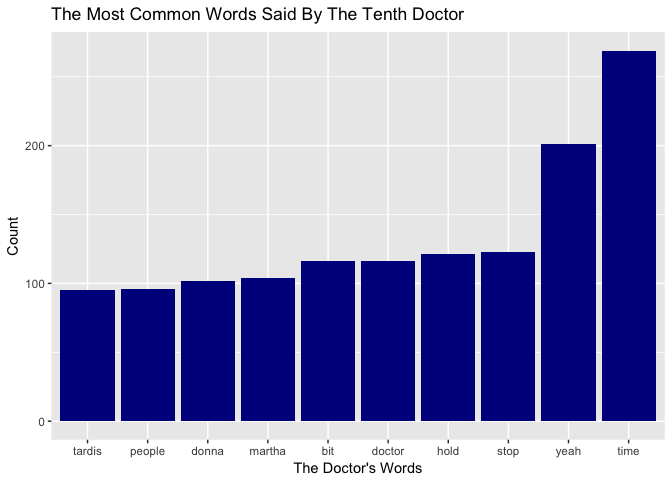
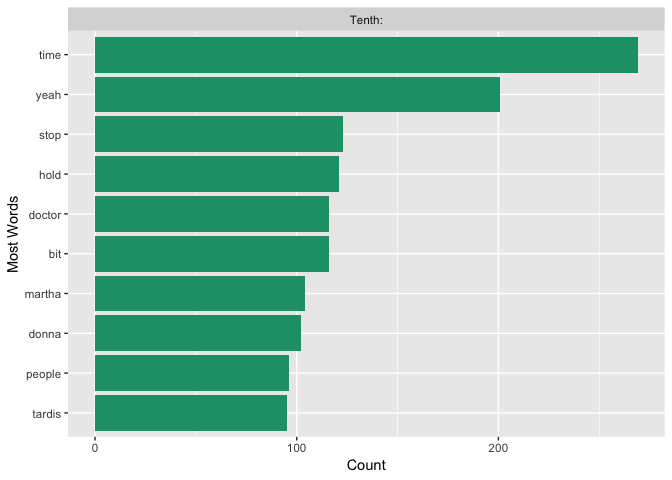
Updated functions to be read in with package and updated doc with sentiment analysis for Bill and Clara

diff --git a/doctor_who.md b/doctor_who.md
@@ -8,27 +8,27 @@ Doctor Who Text Analysis
 
 For my next project I wanted to perform a text analysis, and what could be better then analyzing my favorite tv show Doctor Who! Doctor Who is a sci-fi show that comes on BBC, it is also the longest running sci-fi. I highly recommend it if you have not already seen it.I would like to take a moment to say that as part of my analysis, I try to understand the characters motivation and might discuss their backstory or how they got to a certain point. With all that in mind, as the infamous Dr.River Song would say, "Spoilers." You have been warned!
 
-Ok, let's get down to analyzing some data! To begin I created two functions that webscrapes the desired lines for the desired doctor and then creates a dataframe with three columns: Value, speaker, dialogue. The value is the sem-processed script, where each speaker has their own row, the speaker is the one saying the text, and the dialogue is their text. The code for the functions can be found in the webscraping\_function.R and tidy\_script\_function.R file. The first function needs an url for the website where you will scrape your data and the tidy\_script function will take the output of the webscraping\_finction and the name of the Doctor you are analyzing. This function places the name of the Doctor within your dataset so make sure you format accordingly.
+Ok, let's get down to analyzing some data! To begin I created several functions to help with my analysis. The first couple of functions pulls and cleans the data, while the other ones assist in the analysis. The source code for these functions can be found in the doctor.who package.
 
 Webscraping the Transcripts
 ===========================
 
 ``` r
-#Get 11th Doctor's Lines
+# Get 11th Doctor's Lines
 url <- "http://www.chakoteya.net/DoctorWho/episodes11.html"
 
 eleventh <- webscrape_lines(url)
 
 eleventh <- tidy_script(eleventh, "Eleventh:")
 
-#Get 9th Doctor's Lines
+# Get 9th Doctor's Lines
 url <- "http://www.chakoteya.net/DoctorWho/episodes9.html"
 
 ninth <- webscrape_lines(url)
 
 ninth <- tidy_script(ninth, "Ninth:")
 
-#Get 10th Doctor's Lines
+# Get 10th Doctor's Lines
 url <- "http://www.chakoteya.net/DoctorWho/episodes10.html"
 
 tenth <- webscrape_lines(url)
@@ -49,17 +49,7 @@ Ninth Doctor
 Most words as said by the Ninth doctor.
 
 ``` r
-ninth%>%
-  filter(speaker == "Ninth:")%>%
-  unnest_tokens(word, dialogue) %>%
-  anti_join(stop_words)%>%
-  count(word, sort = TRUE)%>%
-  top_n(10)%>%
-  mutate(word = reorder(word, n))%>%
-  ggplot(aes(word,n))+geom_col(fill = "darkblue")+
-  ggtitle("The Most Common Words Said By The Ninth Doctor")+
-  ylab("Count")+
-  xlab("The Doctor's Words")
+plot_counts(ninth, "Ninth:")
 ```
 
     ## Joining, by = "word"
@@ -73,22 +63,7 @@ It is not surprising that Rose is up there, as well as time. Dead is an interest
 Let's take at look at the counts for Rose.
 
 ``` r
-ninth%>%
-  filter(speaker == "ROSE:"|
-           speaker == "Ninth:")%>%
-  unnest_tokens(word, dialogue) %>%
-  anti_join(stop_words)%>%
-  group_by(speaker)%>%
-  count(word, sort = TRUE)%>%
-  top_n(10)%>%
-  ungroup()%>%
-  mutate(word = reorder(word, n))%>%
-   ggplot(aes(word,n,fill = speaker))+geom_col(show.legend = FALSE)+
-  facet_wrap(~speaker, scales = "free_y")+
-  labs(y = "Counts",
-       x = "Words Said By Each Companion")+
-  ggtitle("Top 10 Most Said Words for the Ninth Doctor and Rose")+
-  coord_flip()
+plot_counts(ninth, c("Ninth:","ROSE:"))
 ```
 
     ## Joining, by = "word"
@@ -100,19 +75,7 @@ ninth%>%
 To give some sort of comparison, I threw in the Ninth doctor. As we can see there are similarities, such as the words Dead and Bit. Like any good companion, Doctor is right up there as well as time. Now I would like to do a sentiment analysis to see who has more positive or negative words.
 
 ``` r
-ninth%>%
-  filter(speaker == "Ninth:"|
-           speaker == "ROSE:")%>%
-  unnest_tokens(word, dialogue) %>%
-  anti_join(stop_words)%>%
-  inner_join(get_sentiments("bing")) %>%
-  group_by(speaker)%>%
-  count(sentiment, sort = TRUE)%>%
-  mutate(proportion = n/sum(n))%>%
-  ungroup()%>%
-  ggplot(aes(sentiment, proportion,fill = speaker))+geom_col(show.legend = FALSE)+
-  facet_wrap(~speaker, scales = "free_y")+
-  coord_flip()
+count_sentiments(ninth, c("Ninth:", "ROSE:"))
 ```
 
     ## Joining, by = "word"
@@ -125,20 +88,10 @@ Ok then, it seems that Rose is both a little more negative, and a little more po
 Tenth Doctor
 ============
 
-Alright, now time for the Tenth doctor and his companions.
+Alright, now time for the Tenth doctor and his companions. For the rest, I went ahead and created fuctions for the code.
 
 ``` r
-tenth%>%
-  filter(speaker == "Tenth:")%>%
-  unnest_tokens(word, dialogue) %>%
-  anti_join(stop_words)%>%
-  count(word, sort = TRUE)%>%
-  top_n(10)%>%
-  mutate(word = reorder(word, n))%>%
-  ggplot(aes(word,n))+geom_col(fill = "darkblue")+
-  ggtitle("The Most Common Words Said By The Tenth Doctor")+
-  ylab("Count")+
-  xlab("The Doctor's Words")
+plot_counts(tenth, "Tenth:")
 ```
 
     ## Joining, by = "word"
@@ -150,23 +103,7 @@ tenth%>%
 So this is interestig, Marth and Donna made the top 10 list, but Rose did not. It is possible that Martha and Donna had a little bit more screen time with appearing in odd episodes here and there. Another interesting note is how high up the word stop appears on the list. I would say that this is where the metaphorical wounds of the time war have done some healing, but the Tenth doctor still has some scars. Part of that healing process involves the Tenth doctor helping others and helping them to ammend their mistakes. The Tenth doctor thus has to say, "stop," to a cyberman take over or to a pointless civial war. Let's break the companion word count down to see how they look
 
 ``` r
-tenth%>%
-  filter(speaker == "ROSE:"|
-    speaker == "MARTHA:"|
-           speaker == "DONNA:")%>%
-  unnest_tokens(word, dialogue) %>%
-  anti_join(stop_words)%>%
-  group_by(speaker)%>%
-  count(word, sort = TRUE)%>%
-  top_n(10)%>%
-  ungroup()%>%
-  mutate(word = reorder(word, n))%>%
-   ggplot(aes(word,n,fill = speaker))+geom_col(show.legend = FALSE)+
-  facet_wrap(~speaker, scales = "free_y")+
-  labs(y = "Counts",
-       x = "Words Said By Each Companion")+
-  ggtitle("Top 10 Most Said Words for Rose, Martha, and Donna")+
-  coord_flip()
+plot_counts(tenth, c("ROSE:", "MARTHA:", "DONNA:"))
 ```
 
     ## Joining, by = "word"
@@ -178,20 +115,7 @@ tenth%>%
 Ok very interesting! My first observations is how high up Doctor, yeah, and time are for all three companions. Next, it is intersting to see that both Marth and Rose have mum pretty high on the list, which makes sense since both characters are at a point in their lives where their moms are pretty invovled. Jackie is constantly worried what trouble her daughter is getting into with the Doctor, and Rose wanted to assure her that everything was fine. Martha on the other hand, although enjoyed her time with the Doctor, she had a life to get back to and kept thinking about her mom and the rest of her family. Donna, being an older companion, did not need a mother bear figure to watch over her and care for her. She had found a new life with the Tenth doctor, and hadn't even told her mother when she first started travling with him. One last thing I would like to point out is how high up the word real was on Donna's list. She has been whisked away from her temp work on this fantastic journey, there were many times in her adventures where she couldn't belive that her life had changed so much. Now, like before, let's do a sentiment analysis of these companions diaglogue.
 
 ``` r
-tenth%>%
-  filter(speaker == "ROSE:"|
-           speaker == "MARTHA:"|
-           speaker == "DONNA:")%>%
-  unnest_tokens(word, dialogue) %>%
-  anti_join(stop_words)%>%
-  inner_join(get_sentiments("bing")) %>%
-  group_by(speaker)%>%
-  count(sentiment, sort = TRUE)%>%
-  mutate(proportion = n/sum(n))%>%
-  ungroup()%>%
-  ggplot(aes(sentiment, proportion,fill = speaker))+geom_col(show.legend = FALSE)+
-  facet_wrap(~speaker, scales = "free_y")+
-  coord_flip()
+count_sentiments(tenth,c("DONNA:", "MARTHA:", "ROSE:"))
 ```
 
     ## Joining, by = "word"
@@ -207,17 +131,7 @@ Eleventh Doctor
 Alright, now it is time for the Eleventh doctor. I am curious to see if the words Geronimo, or bow tie appear on the list.
 
 ``` r
-eleventh%>%
-  filter(speaker == "Eleventh:")%>%
-  unnest_tokens(word, dialogue) %>%
-  anti_join(stop_words)%>%
-  count(word, sort = TRUE)%>%
-  top_n(10)%>%
-  mutate(word = reorder(word, n))%>%
-  ggplot(aes(word,n))+geom_col(fill = "darkblue")+
-  ggtitle("The Most Common Words Said By The Eleventh Doctor")+
-  ylab("Count")+
-  xlab("The Doctor's Words")
+plot_counts(eleventh, "Eleventh:")
 ```
 
     ## Joining, by = "word"
@@ -229,24 +143,7 @@ eleventh%>%
 On to Rory, Amy, Clara, and River.
 
 ``` r
-eleventh%>%
-  filter(speaker == "AMY:"|
-           speaker == "RORY:"|
-           speaker == "CLARA:"|
-           speaker == "RIVER:")%>%
-  unnest_tokens(word, dialogue) %>%
-  anti_join(stop_words)%>%
-  group_by(speaker)%>%
-  count(word, sort = TRUE)%>%
-  top_n(10)%>%
-  ungroup()%>%
-  mutate(word = reorder(word, n))%>%
-   ggplot(aes(word,n,fill = speaker))+geom_col(show.legend = FALSE)+
-  facet_wrap(~speaker, scales = "free_y")+
-  labs(y = "Counts",
-       x = "Words Said By Each Companion")+
-  ggtitle("Top 10 Most Said Words for Amy, Rory, River and Clara")+
-  coord_flip()
+plot_counts(eleventh, c("AMY:", "RORY:", "RIVER:", "CLARA:"))
 ```
 
     ## Joining, by = "word"
@@ -256,21 +153,7 @@ eleventh%>%
 ![](doctor_who_files/figure-markdown_github/unnamed-chunk-9-1.png) Alright, very intersting. Not surprising that one of the most common words for all four companions is "doctor." Being a show about time travel, also not surprising that all of the companions talk about "time" as well. For Rory, Amy, and River it is interesting that some of their top common words would be each other, not surprising since they are the Ponds. River and Clara definately have more negative top words, though this would have to be examined more in depth with a sentiment analysis.
 
 ``` r
-eleventh%>%
-  filter(speaker == "AMY:"|
-           speaker == "RORY:"|
-           speaker == "CLARA:"|
-           speaker == "RIVER:")%>%
-  unnest_tokens(word, dialogue) %>%
-  anti_join(stop_words)%>%
-  inner_join(get_sentiments("bing")) %>%
-  group_by(speaker)%>%
-  count(sentiment, sort = TRUE)%>%
-  mutate(proportion = n/sum(n))%>%
-  ungroup()%>%
-  ggplot(aes(sentiment, proportion,fill = speaker))+geom_col(show.legend = FALSE)+
-  facet_wrap(~speaker, scales = "free_y")+
-  coord_flip()
+count_sentiments(eleventh, c("AMY:", "RORY:", "RIVER:", "CLARA:"))
 ```
 
     ## Joining, by = "word"
@@ -282,17 +165,7 @@ Twelveth Doctor
 ===============
 
 ``` r
-twelveth%>%
-  filter(speaker == "Twelveth:")%>%
-  unnest_tokens(word, dialogue) %>%
-  anti_join(stop_words)%>%
-  count(word, sort = TRUE)%>%
-  top_n(10)%>%
-  mutate(word = reorder(word, n))%>%
-  ggplot(aes(word,n))+geom_col(fill = "darkblue")+
-  ggtitle("The Most Common Words Said By The Twelveth Doctor")+
-  ylab("Count")+
-  xlab("The Doctor's Words")
+plot_counts(twelveth, "Twelveth:")
 ```
 
     ## Joining, by = "word"
@@ -306,22 +179,7 @@ Alright, for this doctor had to modify things ever so slightly. It seems the lin
 We see, like before, that time and the current companions for this doctor are pretty high on the list. Some notable differences would be the last word, er, it seems this is the only doctor with er on the list. Most likely this is due to the fact that the Twelveth doctor does not always care for nor undestand the social protocol of the situation and can be a little lost when someone needs a little emotional support.
 
 ``` r
-twelveth%>%
-  filter(speaker == "BILL:"|
-           speaker == "CLARA:")%>%
-  unnest_tokens(word, dialogue) %>%
-  anti_join(stop_words)%>%
-  group_by(speaker)%>%
-  count(word, sort = TRUE)%>%
-  top_n(10)%>%
-  ungroup()%>%
-  mutate(word = reorder(word, n))%>%
-   ggplot(aes(word,n,fill = speaker))+geom_col(show.legend = FALSE)+
-  facet_wrap(~speaker, scales = "free_y")+
-  labs(y = "Counts",
-       x = "Words Said By Each Companion")+
-  ggtitle("Top 10 Most Said Words for Rose, Martha, and Donna")+
-  coord_flip()
+plot_counts(twelveth, c("BILL:", "CLARA:"))
 ```
 
     ## Joining, by = "word"
@@ -329,5 +187,18 @@ twelveth%>%
     ## Selecting by n
 
 ![](doctor_who_files/figure-markdown_github/unnamed-chunk-12-1.png) Looking at Bill and Clara, it is amazing how similar they are especially in their top 4. It is interesting to see how monks is one of Bill's top 10, but it would make sense since she was only on for one season and The Monks were an adversary that took up 3 whole episodes.
+
+Now to finish up some introductory stuff, let's do one final look at sentiments, focusing specfically on Bill and Clara
+
+``` r
+count_sentiments(twelveth, c("BILL:", "CLARA:"))
+```
+
+    ## Joining, by = "word"
+    ## Joining, by = "word"
+
+![](doctor_who_files/figure-markdown_github/unnamed-chunk-13-1.png)
+
+Ok not that suprising. It looks like both Bill and Clara are pretty similar when it comes to overall the number of positive and negative words they say.
 
 As a final note, this analysis would not be possible without Chrissie of <http://www.chakoteya.net>. Furthermore, Doctor Who and related material is the sole property of BBC.
